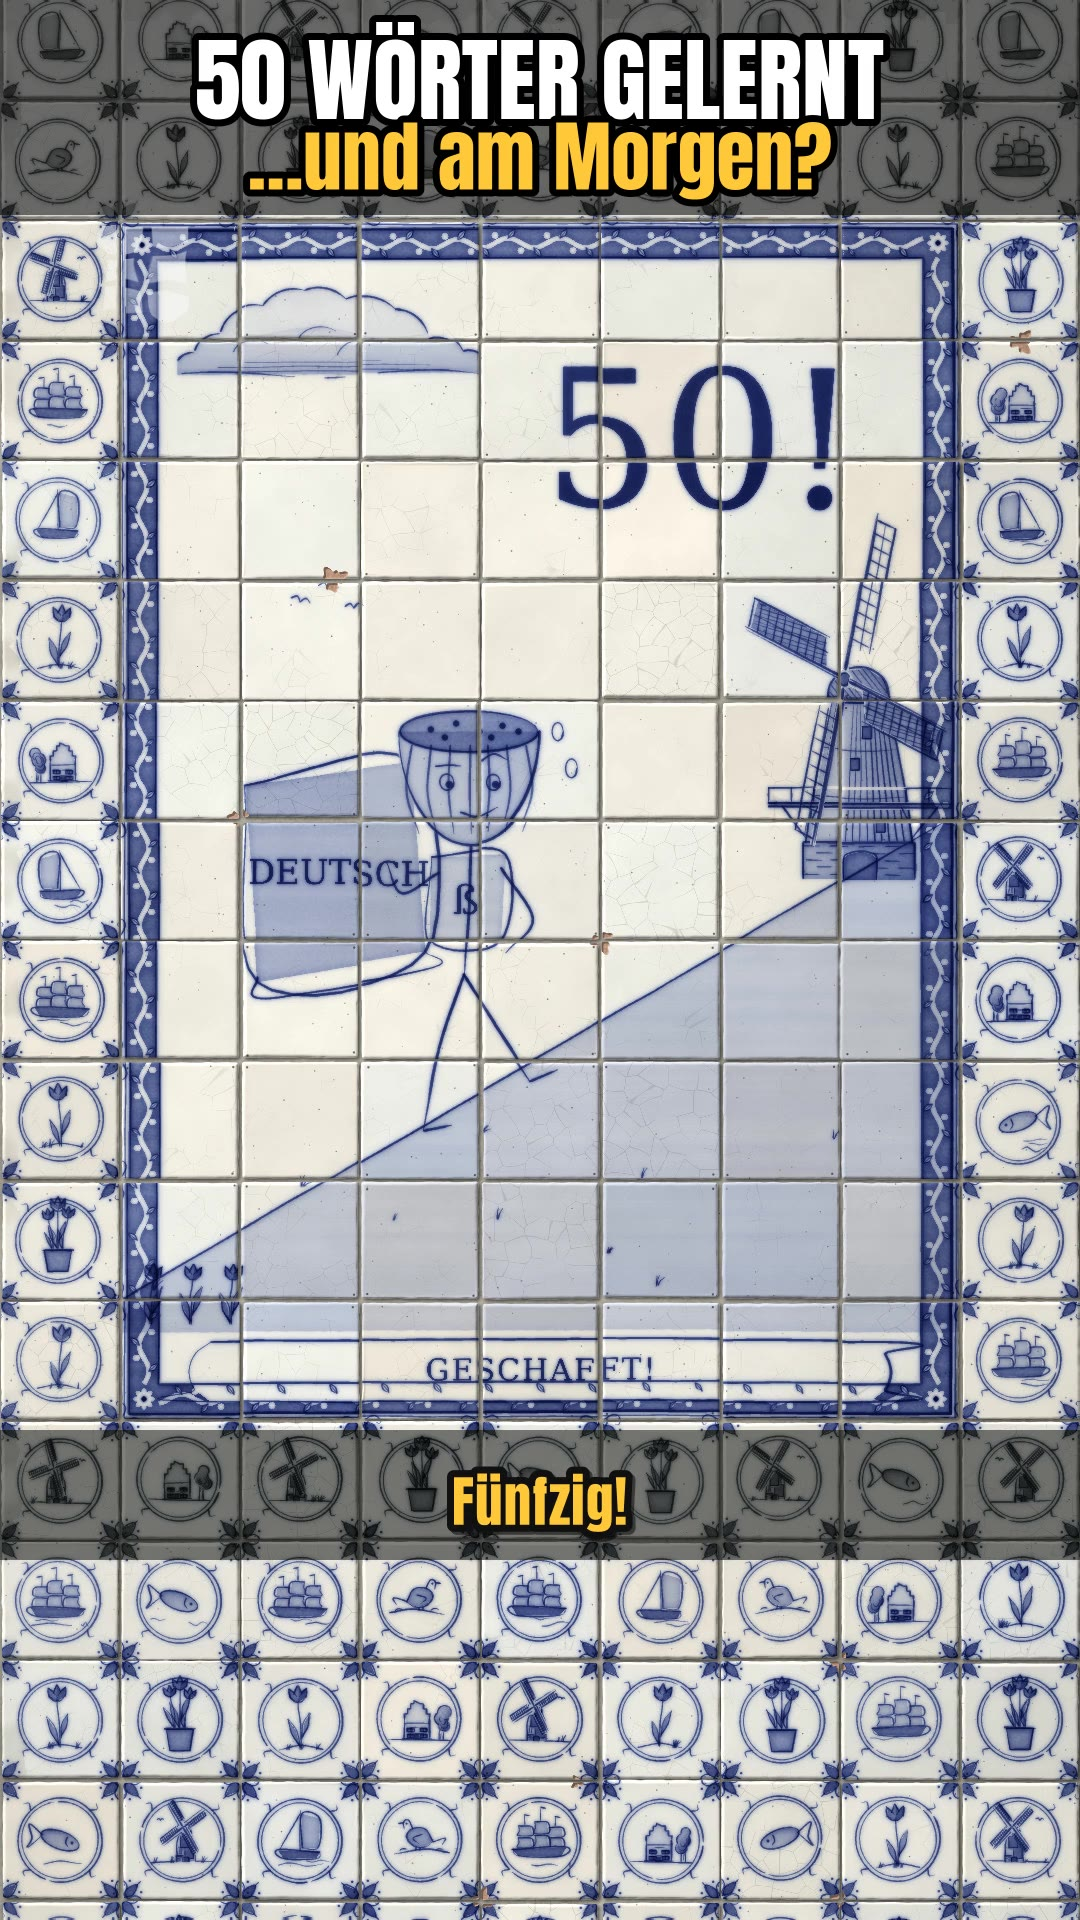
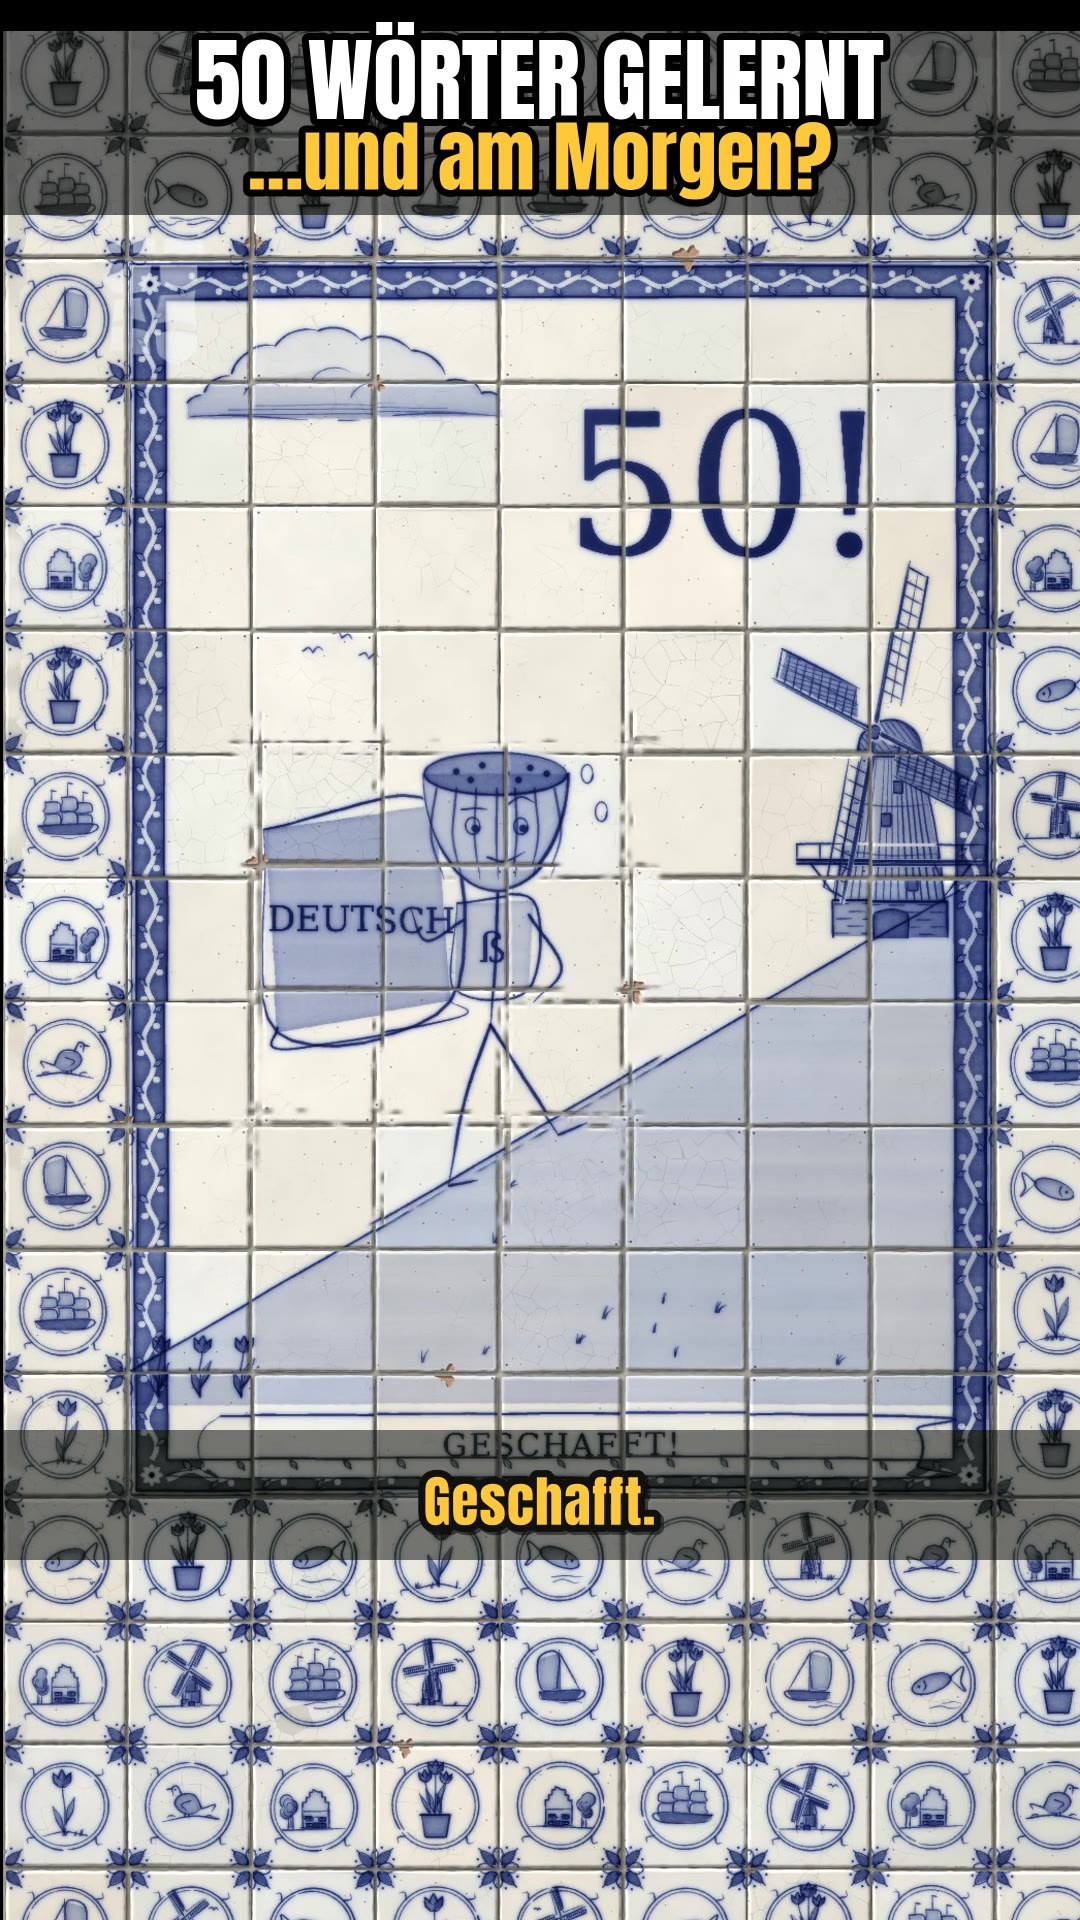
Short s07: fluid animation (brush-wipe paint-on, Melo climbs with walking bob, number repaints, camera push)
Claude-Session: https://claude.ai/code/session_01PmrnuMV8vDh6fYoKG3XG6d

diff --git a/shorts/s07-delft-50-woerter/frames.py b/shorts/s07-delft-50-woerter/frames.py
@@ -5,7 +5,7 @@ sys.path.insert(0, LIB)
 import numpy as np
 from delft import DelftTile, arc
 
-def render(name, big, cart, stages=None):
+def render(name, big, cart, stages=None, melo=True):
     t = DelftTile(1080, 1920, tile=120, joint=3.4, origin=(0, -20), seed=31)
     R = t.tableau(1, 2, 8, 12)                 # 7 x 10 tiles: x 120..960, y 220..1420
     x0, x1, y0, y1 = 120, 960, 220, 1420
@@ -19,40 +19,41 @@ def render(name, big, cart, stages=None):
     mx = 470
     my = Y(mx + 20 * S) - 300 * S + 40
     def P(u, v): return (mx + u * S, my + v * S)
-    hr = 62
-    top = [P(np.cos(a) * hr * 0.98, -40 + 18 * np.sin(a)) for a in np.linspace(0, 2 * np.pi, 40)]
-    t.closed(top, 2.4); t.wash(top, 0.30, slip=0.4, pool=0.5)
-    for (dx, dy) in [(-34, -42), (-12, -47), (10, -40), (30, -45), (-22, -35), (20, -35), (44, -40)]:
-        t.dot(*P(dx, dy), 3.0)
-    rind = [P(np.cos(a) * hr, -40 + 96 * np.sin(a)) for a in np.linspace(0, np.pi, 34)]
-    t.trek(rind, 2.8); t.wash(rind + [P(hr, -40)], 0.14, slip=0.4, pool=0.6)
-    for k in range(-3, 4):
-        t.trek([P(k * 17, -28), P(k * 18.5, 12), P(k * 15, 46)], 1.8, 0.7, pounce=False)
-    sad = big == '3'
-    for ex in (-20, 22):
-        t.closed([P(ex + 6 * np.cos(a), 4 + 7 * np.sin(a)) for a in np.linspace(0, 6.3, 12)], 1.8); t.dot(*P(ex + 2, 6), 3.4)
-    if sad:
-        t.trek([P(-30, -14), P(-18, -8), P(-8, -6)], 1.8, pounce=False); t.trek([P(10, -6), P(22, -8), P(34, -14)], 1.8, pounce=False)
-        t.trek([P(-8, 34), P(8, 28), P(26, 34)], 2.0, pounce=False)
-    else:
-        t.trek([P(10, -14), P(22, -21), P(34, -16)], 2.0, pounce=False); t.trek([P(-30, -10), P(-18, -11), P(-8, -10)], 1.8, pounce=False)
-        t.trek([P(-8, 30), P(8, 34), P(26, 26)], 2.0, pounce=False)
-    t.occlude(rind + top)
-    neck, hip = P(0, 56), P(-6, 172)
-    t.trek([neck, P(-2, 112), hip], 2.6)
-    tee = [P(-34, 66), P(30, 66), P(26, 142), P(-36, 142)]
-    t.closed(tee, 2.2); t.wash(tee, 0.10, slip=0.3)
-    t.letters('ß', *P(-4, 104), 40, font='serif')
-    t.trek([hip, P(30, 228), P(52, 262)], 2.6); t.trek([P(52, 262), P(76, 252)], 2.8)
-    t.trek([hip, P(-28, 238), P(-40, 304)], 2.6); t.trek([P(-40, 304), P(-16, 300)], 2.8)
-    book = [P(-196, 6), P(-52, -14), P(-40, 152), P(-184, 176)]
-    t.closed(book, 2.8); t.wash(book, 0.16, slip=0.6, pool=0.6)
-    t.trek([P(-184, 172), P(-176, 190), P(-34, 166), P(-40, 152)], 2.0)
-    t.letters('DEUTSCH', *P(-114, 82), 34, font='serif', dens=1.0)
-    t.trek([P(-28, 80), P(-60, 98), P(-74, 70)], 2.4); t.trek([P(26, 78), P(54, 122), P(30, 152)], 2.4)
-    for (sx, sy) in [(78, -40), (90, -8)]:
-        t.closed([P(sx + 5 * np.cos(a), sy + 8 * np.sin(a)) for a in np.linspace(0, 6.3, 10)], 1.4)
-    t.occlude(book + tee)
+    if melo:
+        hr = 62
+        top = [P(np.cos(a) * hr * 0.98, -40 + 18 * np.sin(a)) for a in np.linspace(0, 2 * np.pi, 40)]
+        t.closed(top, 2.4); t.wash(top, 0.30, slip=0.4, pool=0.5)
+        for (dx, dy) in [(-34, -42), (-12, -47), (10, -40), (30, -45), (-22, -35), (20, -35), (44, -40)]:
+            t.dot(*P(dx, dy), 3.0)
+        rind = [P(np.cos(a) * hr, -40 + 96 * np.sin(a)) for a in np.linspace(0, np.pi, 34)]
+        t.trek(rind, 2.8); t.wash(rind + [P(hr, -40)], 0.14, slip=0.4, pool=0.6)
+        for k in range(-3, 4):
+            t.trek([P(k * 17, -28), P(k * 18.5, 12), P(k * 15, 46)], 1.8, 0.7, pounce=False)
+        sad = big == '3'
+        for ex in (-20, 22):
+            t.closed([P(ex + 6 * np.cos(a), 4 + 7 * np.sin(a)) for a in np.linspace(0, 6.3, 12)], 1.8); t.dot(*P(ex + 2, 6), 3.4)
+        if sad:
+            t.trek([P(-30, -14), P(-18, -8), P(-8, -6)], 1.8, pounce=False); t.trek([P(10, -6), P(22, -8), P(34, -14)], 1.8, pounce=False)
+            t.trek([P(-8, 34), P(8, 28), P(26, 34)], 2.0, pounce=False)
+        else:
+            t.trek([P(10, -14), P(22, -21), P(34, -16)], 2.0, pounce=False); t.trek([P(-30, -10), P(-18, -11), P(-8, -10)], 1.8, pounce=False)
+            t.trek([P(-8, 30), P(8, 34), P(26, 26)], 2.0, pounce=False)
+        t.occlude(rind + top)
+        neck, hip = P(0, 56), P(-6, 172)
+        t.trek([neck, P(-2, 112), hip], 2.6)
+        tee = [P(-34, 66), P(30, 66), P(26, 142), P(-36, 142)]
+        t.closed(tee, 2.2); t.wash(tee, 0.10, slip=0.3)
+        t.letters('ß', *P(-4, 104), 40, font='serif')
+        t.trek([hip, P(30, 228), P(52, 262)], 2.6); t.trek([P(52, 262), P(76, 252)], 2.8)
+        t.trek([hip, P(-28, 238), P(-40, 304)], 2.6); t.trek([P(-40, 304), P(-16, 300)], 2.8)
+        book = [P(-196, 6), P(-52, -14), P(-40, 152), P(-184, 176)]
+        t.closed(book, 2.8); t.wash(book, 0.16, slip=0.6, pool=0.6)
+        t.trek([P(-184, 172), P(-176, 190), P(-34, 166), P(-40, 152)], 2.0)
+        t.letters('DEUTSCH', *P(-114, 82), 34, font='serif', dens=1.0)
+        t.trek([P(-28, 80), P(-60, 98), P(-74, 70)], 2.4); t.trek([P(26, 78), P(54, 122), P(30, 152)], 2.4)
+        for (sx, sy) in [(78, -40), (90, -8)]:
+            t.closed([P(sx + 5 * np.cos(a), sy + 8 * np.sin(a)) for a in np.linspace(0, 6.3, 10)], 1.4)
+        t.occlude(book + tee)
     # the big painted counter in the sky
     t.letters(big, 700, 440, 190 if len(big) <= 3 else 120, font='serif', dens=1.0)
     # dike, mill on top, tulips, clouds, birds
@@ -83,8 +84,9 @@ def render(name, big, cart, stages=None):
     print(name, flush=True)
 
 os.makedirs(OUT, exist_ok=True)
-render('a48', '48', 'WORT NUMMER 48', stages=os.path.join(OUT, 'st48'))
-render('b49', '49', 'WORT NUMMER 49', stages=os.path.join(OUT, 'st49'))
-render('c50', '50!', 'GESCHAFFT!')
-render('d3', '3', 'AM MORGEN: NOCH 3')
-render('e', '3', 'ALLER ANFANG IST SCHWER')
+import sys as _s
+which = _s.argv[3] if len(_s.argv) > 3 else 'nomelo'
+if which == 'nomelo':
+    render('c50_nm', '50!', 'GESCHAFFT!', melo=False)
+    render('d3_nm', '3', 'AM MORGEN: NOCH 3', melo=False)
+    render('e_nm', '3', 'ALLER ANFANG IST SCHWER', melo=False)

diff --git a/shorts/s07-delft-50-woerter/anim.py b/shorts/s07-delft-50-woerter/anim.py
@@ -1,0 +1,69 @@
+"""Fluid animation from the Delft renders: brush-wipe paint-on, Melo climbing with a walking bob, number/cartouche
+repaints, slow camera push. Writes raw RGB frames to stdout (1080x1920, 30 fps)."""
+import sys, numpy as np
+from PIL import Image, ImageFilter
+D = 'out/'
+def L(f): return np.asarray(Image.open(D + f).convert('RGB').resize((1080, 1920)), np.float32)
+BL, O48, W48, W49, F49, F50, D3, E = [L(f) for f in ['st48/00_pounce.png', 'st48/01_outline.png', 'st48/02_wash.png',
+                                                    'st49/02_wash.png', 'b49.png', 'c50.png', 'd3.png', 'e.png']]
+N50, N3, NE = L('c50_nm.jpg'), L('d3_nm.jpg'), L('e_nm.jpg')
+H, W = 1920, 1080
+YY, XX = np.mgrid[0:H, 0:W].astype(np.float32)
+rng = np.random.default_rng(3)
+def smooth_noise(scale, seed):
+    r = np.random.default_rng(seed).random((H // scale + 2, W // scale + 2)).astype(np.float32)
+    im = Image.fromarray((r * 255).astype(np.uint8)).resize((W, H), Image.BICUBIC).filter(ImageFilter.GaussianBlur(scale / 3))
+    return np.asarray(im, np.float32) / 255
+NZ = smooth_noise(60, 1) * 0.6 + smooth_noise(14, 2) * 0.4
+def melo_mask(full, nm):
+    d = np.abs(full - nm).sum(2)
+    d[:, :215] = 0; d[:, 625:] = 0; d[:675, :] = 0; d[1165:, :] = 0      # only Melo's own box
+    m = Image.fromarray(((d > 45) * 255).astype(np.uint8)).filter(ImageFilter.MaxFilter(7)).filter(ImageFilter.GaussianBlur(2.5))
+    return np.asarray(m, np.float32)[..., None] / 255
+M50, M3 = melo_mask(F50, N50), melo_mask(D3, N3)
+def ss(x): x = np.clip(x, 0, 1); return x * x * (3 - 2 * x)
+def wipe(A, B, p, ramp, soft=0.12, region=None):
+    """brush-like reveal of B over A; ramp in 0..1 = order of painting; p 0..1"""
+    m = ss((p * (1 + soft + 0.35) - (ramp * 0.65 + NZ * 0.35)) / soft)
+    if region is not None: m = m * region
+    m = m[..., None]
+    return A * (1 - m) + B * m
+DIAG = np.clip(((XX / W) * 0.45 + (1 - YY / H) * 0.55), 0, 1)               # bottom-left → top-right
+def box(x0, y0, x1, y1, f=18):
+    r = np.zeros((H, W), np.float32); r[y0:y1, x0:x1] = 1
+    return np.asarray(Image.fromarray((r * 255).astype(np.uint8)).filter(ImageFilter.GaussianBlur(f)), np.float32) / 255
+NUM = box(470, 300, 960, 600); NUMR = np.clip((XX - 470) / 490, 0, 1)
+CART = box(160, 1320, 920, 1420, 10); CARTR = np.clip((XX - 160) / 760, 0, 1)
+def shift(a, dx, dy):
+    dx, dy = int(round(dx)), int(round(dy)); out = np.zeros_like(a)
+    ys, yd = (slice(max(0, -dy), H - max(0, dy)), slice(max(0, dy), H - max(0, -dy)))
+    xs, xd = (slice(max(0, -dx), W - max(0, dx)), slice(max(0, dx), W - max(0, -dx)))
+    out[yd, xd] = a[ys, xs]; return out
+def melo_comp(bg, src, mask, t, t0, t1):
+    p = np.clip((t - t0) / (t1 - t0), 0, 1)
+    dx = 62 * p; dy = -62 * 0.58 * p - 7 * abs(np.sin(np.pi * 1.7 * (t - t0)))
+    ms, ss_ = shift(mask, dx, dy), shift(src, dx, dy)
+    # remove Melo from his old place is already done (bg has no Melo); paint him at the new place
+    return bg * (1 - ms) + ss_ * ms
+FPS, DUR = 30, 10.95
+out = sys.stdout.buffer
+for f in range(int(DUR * FPS)):
+    t = f / FPS
+    if t < 1.0:   fr = wipe(BL, O48, t / 1.0, DIAG)
+    elif t < 2.29: fr = wipe(O48, W48, (t - 1.0) / 1.0, DIAG)
+    elif t < 2.75: fr = wipe(W48, W49, (t - 2.29) / 0.4, NUMR, region=NUM)
+    elif t < 3.76: fr = wipe(W49, F49, (t - 2.75) / 0.9, DIAG, soft=0.2)
+    elif t < 4.10: fr = wipe(F49, F50, (t - 3.76) / 0.3, NUMR, region=NUM)
+    else:
+        bg = N50
+        if t >= 7.60: bg = wipe(N50, N3, (t - 7.60) / 0.35, NUMR, region=NUM)
+        if t >= 9.14: bg = wipe(N3, NE, (t - 9.14) / 0.6, CARTR, region=CART)
+        if t < 7.60: src, m = F50, M50
+        else:
+            k = np.clip((t - 7.60) / 0.2, 0, 1); src = F50 * (1 - k) + D3 * k; m = np.maximum(M50, M3)
+        fr = melo_comp(bg, src, m, t, 4.10, DUR)
+    z = 1 + 0.07 * t / DUR                                                   # slow push-in toward Melo
+    im = Image.fromarray(np.clip(fr, 0, 255).astype(np.uint8))
+    cw, ch = W / z, H / z; cx, cy = 520, 900
+    im = im.crop((cx - cw / 2, cy - ch / 2, cx + cw / 2, cy + ch / 2)).resize((W, H), Image.BICUBIC)
+    out.write(im.tobytes())
